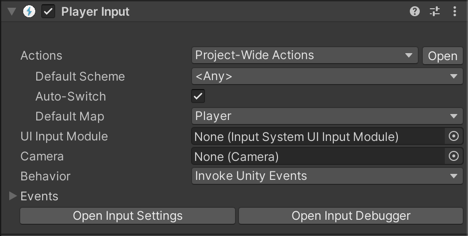
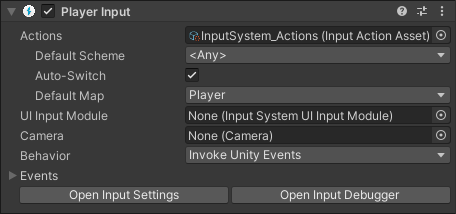
amendments to playerinput page

diff --git a/Packages/com.unity.inputsystem/Documentation~/ProjectWideActions.md b/Packages/com.unity.inputsystem/Documentation~/ProjectWideActions.md
@@ -16,12 +16,17 @@ Therefore, unless you have specific project requirements that require more than 
 To create and assign the current project-wide actions, go to **Edit** > **Project Settings** > **Input System Package**.
 
 If you don't yet have an Action Asset assigned as project-wide in your project, the Input System Package settings window displays an empty field for you to assign your action asset, and a button allowing you to create and assign one. 
-![image alt text](./Images/InputSettingsNoProjectWideAsset.png)
+![image alt text](./Images/InputSettingsNoProjectWideAsset.png)</br>
 *The Input System Package Project Settings with no project-wide actions assigned*
 
 > **Note:** If you already have an Action Asset assigned, this button is not displayed, and instead the Actions Editor is displayed, allowing you to edit the project-wide actions.
 
 To create an Action Asset with default actions pre-configured, click  **"Create a new project-wide Action Asset"**. The asset is created in your project, and automatically assigned as the **project-wide actions**.
+
+The Action Asset appears in your Project view, and is named "InputSystem_Actions". This is where your new configuration of actions is saved, including any changes you make to it.
+
+![](images/InputSystemActionsAsset.png)<br/>
+*The new Actions Asset in your Project window*
 
 ## Edit project-wide actions
 
